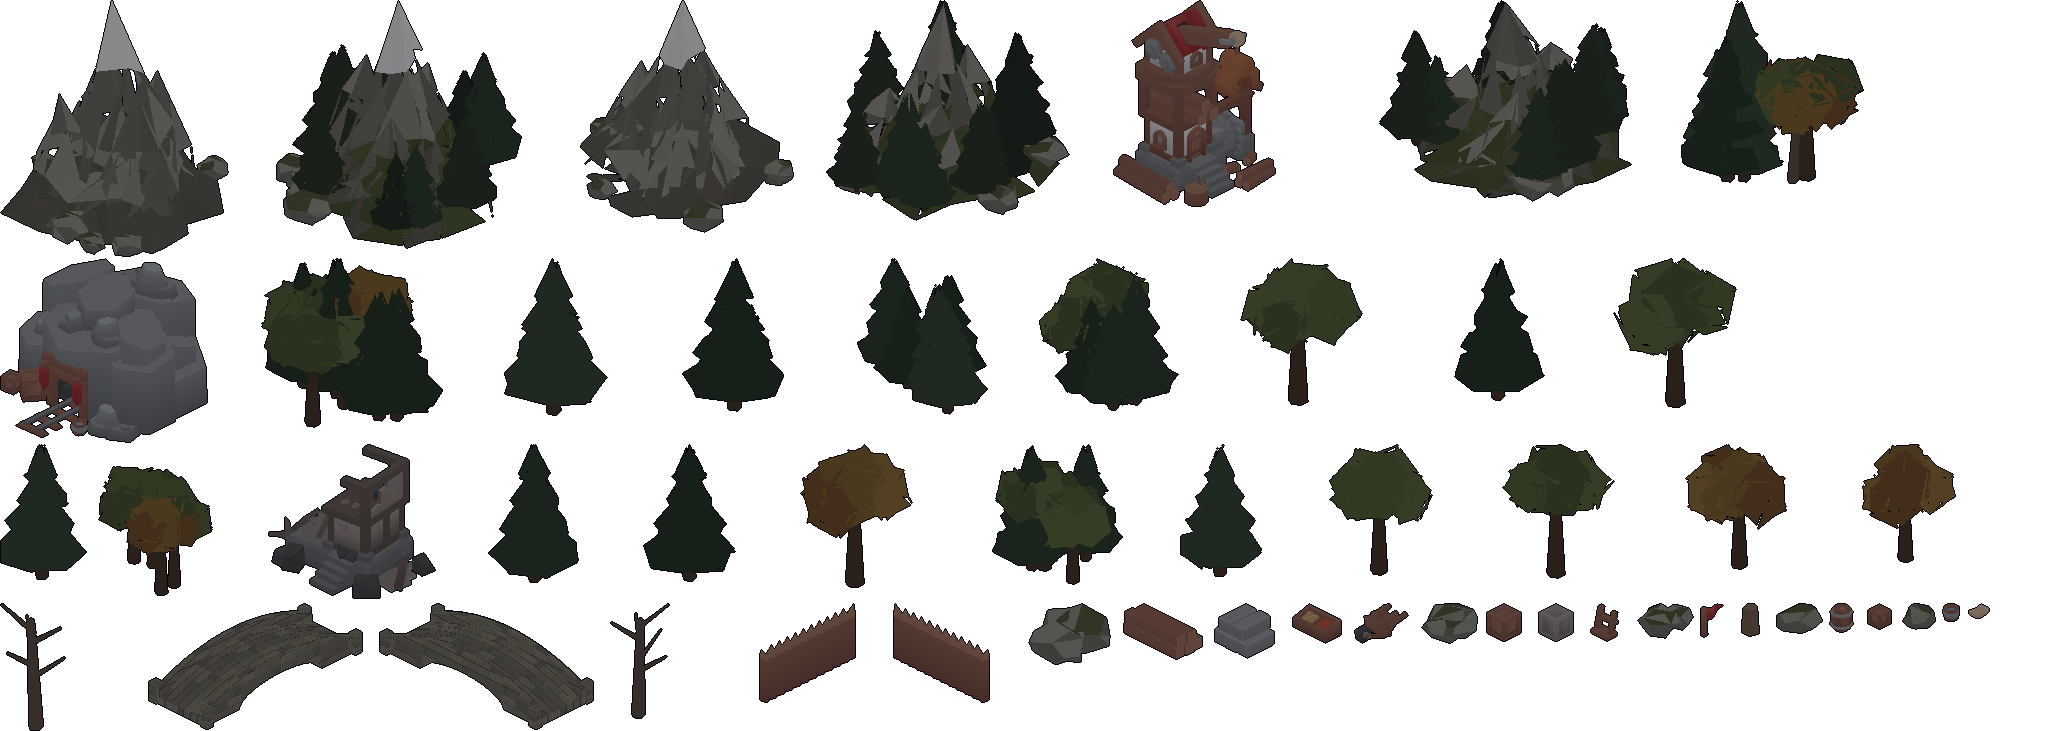
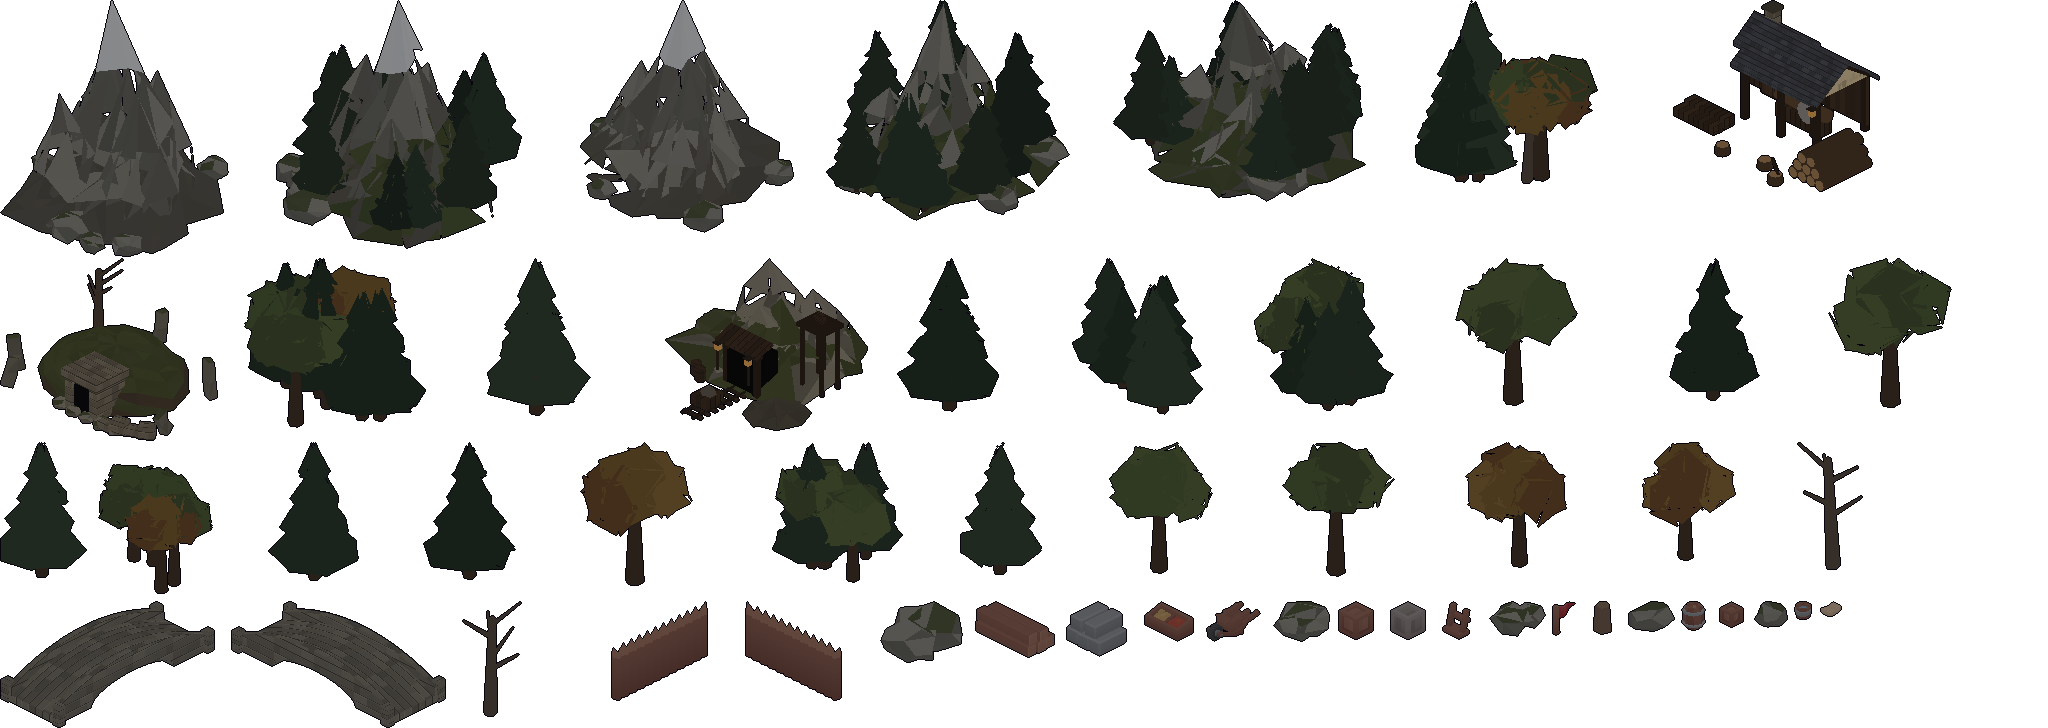
Replace KayKit ruin, mine and lumber mill with our own
- buildkit.js adds three overland site types:
  - barrow: the Old Barrows, an earthen mound with a stone doorway and dark
    passage, standing stones, a tumbled wall and a dead tree.
  - mine: Deepdelve Mine, a crag outcrop with a timbered adit and lantern,
    rails and an ore cart, a spoil heap and a winch frame.
  - lumbermill: an open saw-shed with saw bench and blade, a log pile, plank
    stacks, stumps, a cabin and a lantern.
- Same ids (ruin, mine_0, lumbermill_90); only small KayKit props remain.
- Credits and town-art doc updated.

Claude-Session: https://claude.ai/code/session_015iJE9saRx1hCYJHRMUYeGn

diff --git a/tools/actor-lab/buildkit.js b/tools/actor-lab/buildkit.js
@@ -497,6 +497,92 @@ const NATURE = {
 };
 export function makeNature(kind, seed = 1, variant = 0) { return NATURE[kind](rng(seed * 131 + kind.length), variant); }
 
+// ── overland sites (our own, replacing the stock ruin / mine / lumber mill) ─────
+function lantern(g, S, x, y, z) {
+  box(0.02, 0.22, 0.02, S.m.beam, x, y - 0.22, z, g);
+  const l = new THREE.Mesh(new THREE.BoxGeometry(0.05, 0.06, 0.05), S.m.glass); l.userData.glow = true; l.position.set(x, y + 0.02, z); g.add(l);
+  box(0.07, 0.015, 0.07, S.m.trim, x, y + 0.05, z, g);
+}
+function standingStone(g, r, x, z, h, lean = 0) {
+  const geo = faceted(new THREE.BoxGeometry(0.1, h, 0.07, 1, 2, 1), r, 0.03, (ny, y, q) => (ny > 0.6 ? tint(ROCK.moss, 0.9 + q * 0.2) : tint(ROCK.base, 0.8 + q * 0.25)));
+  geo.translate(0, h / 2, 0);
+  const m = new THREE.Mesh(geo, vmat()); m.position.set(x, 0, z); m.rotation.set(lean, r() * 3, lean * 0.5); g.add(m); return m;
+}
+Object.assign(TYPES, {
+  // The Old Barrows: an earthen burial mound with a stone doorway, standing stones, a tumbled wall
+  barrow(S, g, r) {
+    const moundGeo = new THREE.SphereGeometry(0.62, 12, 6, 0, Math.PI * 2, 0, Math.PI / 2); moundGeo.scale(1.15, 0.62, 1);
+    const mound = new THREE.Mesh(faceted(moundGeo, r, 0.06, (ny, y, q) => (ny > 0.35 ? tint(ROCK.grass, 0.8 + q * 0.3) : tint(C3('#4a4034'), 0.85 + q * 0.2))), vmat());
+    mound.position.set(-0.1, 0, -0.12); g.add(mound);
+    // entrance passage on the camera side: dark mouth, uprights, lintel, kerb stones
+    const dark = mat(null, '#0c0a10'); box(0.22, 0.26, 0.3, dark, 0.12, 0, 0.36, g);
+    for (const sx of [-1, 1]) box(0.09, 0.32, 0.36, S.m.stone, 0.12 + sx * 0.155, 0, 0.36, g);
+    box(0.44, 0.08, 0.42, S.m.stone, 0.12, 0.32, 0.36, g);
+    for (let i = 0; i < 6; i++) { const a = -0.6 + i * 0.28; const k = rockMesh(r, 0.07 + r() * 0.03, 0.6); k.position.set(0.12 + Math.cos(a + 1.2) * 0.62, 0, 0.3 + Math.sin(a + 1.2) * 0.24); g.add(k); }
+    // a ring of leaning stones, a tumbled wall, a dead tree
+    for (const [x, z, h, l] of [[-0.85, 0.35, 0.34, 0.12], [-0.72, 0.62, 0.26, -0.2], [0.7, -0.5, 0.38, 0.06], [0.85, 0.2, 0.22, 0.3], [-0.3, -0.85, 0.3, -0.1]]) standingStone(g, r, x, z, h, l);
+    for (let i = 0; i < 4; i++) box(0.14, 0.07 + (i % 2) * 0.05, 0.1, S.m.stone, 0.45 + i * 0.12, 0, 0.55 - i * 0.05, g).rotation.y = 0.2 * i;
+    deadTree(g, r, -0.6, -0.4, 1.0);
+  },
+  // Deepdelve Mine: a rock outcrop with a timbered adit, rails and an ore cart, spoil heap, winch frame, lanterns
+  mine(S, g, r) {
+    const out = new THREE.Group(); out.position.set(-0.2, 0, -0.25); g.add(out);
+    const oc = (ny, y, q) => (ny > 0.6 && y < 0.35 ? tint(ROCK.grass, 0.8 + q * 0.3) : ny > 0.35 ? tint(ROCK.light, 0.85 + q * 0.2) : tint(ROCK.base, 0.8 + q * 0.25));
+    const crag = (x, z, rad, ht, seg) => { const geo = new THREE.ConeGeometry(rad, ht, seg, 3); geo.translate(0, ht / 2, 0); const m = new THREE.Mesh(faceted(geo, r, rad * 0.3, oc), vmat()); m.position.set(x, 0, z); m.rotation.y = r() * 6; out.add(m); };
+    crag(0, 0, 0.85, 0.42, 10);                                                   // a broad low outcrop…
+    crag(-0.25, -0.2, 0.5, 0.78, 7); crag(0.22, -0.28, 0.42, 0.62, 7); crag(-0.05, 0.1, 0.4, 0.55, 7);   // …with a few blunt crags
+    for (let i = 0; i < 3; i++) { const a = r() * 6.28; const k = rockMesh(r, 0.18 + r() * 0.1, 0.8); k.position.set(Math.cos(a) * 0.6 - 0.2, 0, Math.sin(a) * 0.5 - 0.25); g.add(k); }
+    // adit on the +z face: dark mouth framed with timber, a little plank roof
+    const ad = new THREE.Group(); ad.position.set(0.05, 0, 0.35); g.add(ad);
+    box(0.34, 0.36, 0.3, mat(null, '#0b0a0e'), 0, 0, -0.05, ad);
+    for (const sx of [-1, 1]) box(0.05, 0.4, 0.05, S.m.beam, sx * 0.19, 0, 0.08, ad);
+    box(0.46, 0.06, 0.07, S.m.beam, 0, 0.4, 0.08, ad);
+    const rf = box(0.52, 0.03, 0.22, S.m.wood, 0, 0.47, 0.05, ad); rf.rotation.x = 0.35;
+    lantern(ad, S, -0.24, 0.36, 0.14);
+    // rails running out of the adit with sleepers, an ore cart on them
+    for (let i = 0; i < 7; i++) box(0.22, 0.015, 0.035, S.m.wood, 0.05, 0, 0.5 + i * 0.09, g);
+    for (const sx of [-1, 1]) box(0.015, 0.02, 0.66, S.m.trim, 0.05 + sx * 0.07, 0.015, 0.78, g);
+    const cart = new THREE.Group(); cart.position.set(0.05, 0.02, 0.86); g.add(cart);
+    box(0.18, 0.1, 0.22, S.m.wood, 0, 0.03, 0, cart); for (const [x, z] of [[-0.08, -0.07], [0.08, -0.07], [-0.08, 0.07], [0.08, 0.07]]) { const w = new THREE.Mesh(new THREE.CylinderGeometry(0.03, 0.03, 0.02, 8), S.m.trim); w.rotation.z = Math.PI / 2; w.position.set(x, 0.03, z); cart.add(w); }
+    const ore = new THREE.Mesh(faceted(new THREE.DodecahedronGeometry(0.08, 0), r, 0.03, () => tint(C3('#5c5750'), 1)), vmat()); ore.position.y = 0.14; ore.scale.y = 0.6; cart.add(ore);
+    // spoil heap and a winch frame on the outcrop's shoulder
+    const heap = new THREE.Mesh(faceted(new THREE.ConeGeometry(0.3, 0.12, 8, 2).translate(0, 0.06, 0), r, 0.04, (ny, y, q) => tint(ROCK.scree, 0.62 + q * 0.2)), vmat()); heap.position.set(0.55, 0, 0.5); g.add(heap);
+    const wf = new THREE.Group(); wf.position.set(0.5, 0, -0.1); g.add(wf);
+    for (const [x, z] of [[-0.12, -0.1], [0.12, -0.1], [-0.12, 0.1], [0.12, 0.1]]) box(0.03, 0.62, 0.03, S.m.beam, x, 0, z, wf);
+    box(0.32, 0.04, 0.28, S.m.beam, 0, 0.62, 0, wf);
+    const pul = new THREE.Mesh(new THREE.CylinderGeometry(0.06, 0.06, 0.03, 10), S.m.wood); pul.rotation.x = Math.PI / 2; pul.position.set(0, 0.7, 0); wf.add(pul);
+    box(0.008, 0.45, 0.008, S.m.trim, 0.06, 0.2, 0, wf);
+    lantern(g, S, 0.32, 0.46, 0.62);
+    barrel(g, S, -0.35, 0.55); barrel(g, S, -0.45, 0.5);
+  },
+  // Lumber mill: an open saw-shed on posts, saw bench, log and plank stacks, stumps, a cabin
+  lumbermill(S, g, r) {
+    const shed = new THREE.Group(); shed.position.set(-0.05, 0, -0.1); g.add(shed);
+    for (const [x, z] of [[-0.45, -0.3], [0.45, -0.3], [-0.45, 0.3], [0.45, 0.3], [0, -0.3], [0, 0.3]]) box(0.05, 0.55, 0.05, S.m.beam, x, 0, z, shed);
+    box(0.95, 0.04, 0.05, S.m.beam, 0, 0.53, 0.3, shed); box(0.95, 0.04, 0.05, S.m.beam, 0, 0.53, -0.3, shed);
+    box(0.95, 0.5, 0.03, S.m.wood, 0, 0.05, -0.31, shed);                       // back wall of planks
+    roofOver(S, shed, 0.95, 0.62, 0.55, S.roofRise * 0.8);
+    // saw bench with a log on it and a big blade
+    box(0.55, 0.14, 0.14, S.m.wood, 0, 0, 0.02, shed);
+    const lg = new THREE.Mesh(new THREE.CylinderGeometry(0.06, 0.065, 0.62, 8), mat(null, '#5a4430')); lg.rotation.z = Math.PI / 2; lg.position.set(0, 0.2, 0.02); shed.add(lg);
+    const blade = new THREE.Mesh(new THREE.CylinderGeometry(0.11, 0.11, 0.01, 16), mat(null, '#8a8a90')); blade.rotation.x = Math.PI / 2; blade.position.set(0.12, 0.2, 0.1); shed.add(blade);
+    // log pile (pyramid of cylinders) and plank stacks
+    const logs = new THREE.Group(); logs.position.set(0.72, 0, 0.35); g.add(logs);
+    const bark = mat(null, '#4a3828');
+    for (const [row, n] of [[0, 4], [1, 3], [2, 2]]) for (let i = 0; i < n; i++) { const c = new THREE.Mesh(new THREE.CylinderGeometry(0.055, 0.055, 0.6, 8), bark); c.rotation.x = Math.PI / 2; c.position.set((i - (n - 1) / 2) * 0.11, 0.055 + row * 0.095, 0); logs.add(c);
+      const end = new THREE.Mesh(new THREE.CylinderGeometry(0.05, 0.05, 0.005, 8), mat(null, '#9a7a52')); end.rotation.x = Math.PI / 2; end.position.set(c.position.x, c.position.y, 0.302); logs.add(end); }
+    for (let i = 0; i < 4; i++) box(0.5, 0.025, 0.12, S.m.wood, -0.72, i * 0.027, 0.42, g);
+    for (let i = 0; i < 3; i++) box(0.5, 0.025, 0.12, S.m.wood, -0.72, i * 0.027, 0.56, g);
+    // cabin behind, stumps and an axe block in front
+    const cab = new THREE.Group(); cab.position.set(-0.75, 0, -0.45); g.add(cab);
+    storeyBlock(S, cab, 0.42, 0.38, 0, 0.4, S.m.wood, true, { doorZ: 0.1 }); doorOn(cab, S, { side: 'z', wallW: 0.42, wallD: 0.38 }, 0.1, 0.13, 0.28, false);
+    roofOver(S, cab, 0.42, 0.38, 0.4, S.roofRise); chimney(cab, S, -0.1, -0.05, 0.4, 0.28);
+    for (const [x, z] of [[0.25, 0.7], [0.5, 0.82], [-0.2, 0.78]]) { const st = new THREE.Mesh(new THREE.CylinderGeometry(0.06, 0.07, 0.08, 8), bark); st.position.set(x, 0.04, z); g.add(st); const top = new THREE.Mesh(new THREE.CylinderGeometry(0.058, 0.058, 0.005, 8), mat(null, '#9a7a52')); top.position.set(x, 0.083, z); g.add(top); }
+    box(0.02, 0.16, 0.02, S.m.beam, 0.5, 0.08, 0.82, g).rotation.z = 0.5;
+    lantern(g, S, 0.5, 0.5, 0.36);
+  },
+});
+
 export const BUILD_TYPES = Object.keys(TYPES);
 
 export function makeBuilding(type, style, seed = 1, faceX = false) {

diff --git a/src/sim/envfoot.js b/src/sim/envfoot.js
@@ -1,4 +1,4 @@
 // envfoot.js — GENERATED by tools/actor-lab/bake-env.cjs. Do not edit.
 // Ground footprint of each baked environment sprite, in tiles relative to its
 // origin: [x0, y0, x1, y1]. Used for collision and placement.
-export const ENV_FOOT = {"fence_0":[-10.5,-5.77,-9.5,5.77],"fence_90":[-5.77,9.5,5.77,10.5],"ruin":[-7.19,-7.13,8.2,5.92],"mine_0":[-8.17,-10.2,7.89,9],"lumbermill_90":[-4.59,-6.81,7.3,6.86],"barrel":[-1.01,-1.01,1.01,1.01],"crate_A_big":[-1.05,-1.05,1.05,1.05],"crate_A_small":[-0.7,-0.7,0.7,0.7],"crate_B_big":[-1.05,-1.05,1.05,1.05],"crate_long_A":[-2,-1,2,1],"sack":[-0.53,-0.86,0.53,0.74],"wheelbarrow":[-1.19,-2.13,1.19,2.93],"weaponrack":[-1,-0.7,1,0.6],"bucket_water":[-0.7,-0.7,0.7,0.7],"resource_lumber":[-3.45,-1.64,3.41,1.67],"resource_stone":[-2.11,-1.77,2.11,1.81],"flag_red":[-0.27,-2.42,0.28,0.22],"pine_1":[-5.46,-5.7,5.31,5.16],"pine_2":[-4.5,-4.8,4.99,4.87],"pine_3":[-5.04,-4.72,4.94,5.15],"pine_4":[-4.7,-4.76,5.18,5.04],"pine_5":[-4.33,-4.33,4.72,4.69],"pine_6":[-5.3,-5.62,5.8,5.55],"oak_1":[-6.11,-7.36,6.14,6.76],"oak_2":[-5.3,-5.13,4.9,6.33],"oak_3":[-4.78,-5.35,3.81,5.83],"oak_4":[-6.79,-6.27,5.48,6.7],"autumn_1":[-5.55,-5.54,5.19,6.4],"autumn_2":[-5.46,-4.76,5.52,5.58],"autumn_3":[-3.81,-5.57,4.15,6.11],"dead_1":[-2.24,-2.81,2.66,2.62],"dead_2":[-2.56,-1.87,2.98,3.05],"grove_1":[-9.33,-9.47,3.42,3.61],"grove_2":[-10.08,-9.35,8.36,9.26],"grove_3":[-8.88,-10.4,9.35,7.65],"grove_4":[-10.19,-7.19,8.42,8.9],"grove_5":[-7.76,-4.44,6.78,8.94],"grove_6":[-9.02,-9.65,7.4,2.07],"stump":[-0.85,-0.89,0.85,0.73],"bridge_0":[-3.6,-9.7,3.6,9.7],"bridge_90":[-9.7,-3.6,9.7,3.6],"rock_A":[-2.18,-2.03,2.19,2.41],"rock_B":[-2.03,-2.12,2.06,1.97],"rock_C":[-3.06,-3.35,3.32,3.55],"rock_D":[-2.7,-3.56,2.22,2.22],"rock_E":[-3.72,-3.84,4.19,6.22],"mountain_A_grass_trees":[-11.35,-11.48,11.34,11.97],"mountain_B_grass_trees":[-11.71,-13.02,12.8,11.38],"mountain_C_grass_trees":[-14.56,-13.66,14.26,14.25],"mountain_A":[-11.3,-11.74,11.05,10.38],"mountain_B":[-12.23,-11.71,11.72,13.45],"vale_tavern_1":[-6.2,-8.45,6.1,5.3],"vale_inn_1":[-7.1,-4.4,10.48,5.1],"vale_shop_1":[-4.2,-4.32,5.07,4.2],"vale_temple_1":[-12.5,-4.8,7.99,4.8],"vale_well_1":[-2.1,-1.8,2.1,1.8],"vale_house_1":[-4.7,-4,4.7,4],"vale_house_2":[-4.7,-4,4.7,4],"vale_house_3":[-4.7,-4,4.7,4],"vale_housex_1":[-4,-4.7,4,4.7],"vale_housex_2":[-4,-4.7,4,4.7],"vale_farm_1":[-9.63,-5.7,9.77,7.63],"vale_farmx_1":[-5.7,-9.77,7.63,9.63],"vale_keep_1":[-6.37,-6.45,6.37,6.45],"vale_wall_1":[-11,-1.7,11,2.1],"vale_wally_1":[-1.7,-11,2.1,11],"fens_tavern_1":[-6.2,-8.45,6.1,5.3],"fens_inn_1":[-7.1,-4.4,10.48,5.1],"fens_shop_1":[-4.2,-4.32,5.07,4.2],"fens_temple_1":[-12.5,-4.8,7.99,4.8],"fens_well_1":[-2.1,-1.8,2.1,1.8],"fens_house_1":[-4.7,-4,4.7,4],"fens_house_2":[-4.7,-4,4.7,4],"fens_house_3":[-4.7,-4,4.7,4],"fens_housex_1":[-4,-4.7,4,4.7],"fens_housex_2":[-4,-4.7,4,4.7],"fens_farm_1":[-9.63,-5.7,9.77,7.63],"fens_farmx_1":[-5.7,-9.77,7.63,9.63],"fens_keep_1":[-6.37,-6.45,6.37,6.45],"fens_wall_1":[-11,-1.7,11,2.1],"fens_wally_1":[-1.7,-11,2.1,11],"reach_tavern_1":[-6.2,-8.45,6.1,5.3],"reach_inn_1":[-7.1,-4.4,10.48,5.1],"reach_shop_1":[-4.2,-4.32,5.07,4.2],"reach_temple_1":[-12.5,-4.8,7.99,4.8],"reach_well_1":[-2.1,-1.8,2.1,1.8],"reach_house_1":[-4.7,-4,4.7,4],"reach_house_2":[-4.7,-4,4.7,4],"reach_house_3":[-4.7,-4,4.7,4],"reach_housex_1":[-4,-4.7,4,4.7],"reach_housex_2":[-4,-4.7,4,4.7],"reach_farm_1":[-9.63,-5.7,9.77,7.63],"reach_farmx_1":[-5.7,-9.77,7.63,9.63],"reach_keep_1":[-6.37,-6.45,6.37,6.45],"reach_wall_1":[-11,-1.7,11,2.1],"reach_wally_1":[-1.7,-11,2.1,11],"heights_tavern_1":[-6.2,-8.45,6.1,5.3],"heights_inn_1":[-7.1,-4.4,10.48,5.1],"heights_shop_1":[-4.2,-4.32,5.07,4.2],"heights_temple_1":[-12.5,-4.8,7.99,4.8],"heights_well_1":[-2.1,-1.8,2.1,1.8],"heights_house_1":[-4.7,-4,4.7,4],"heights_house_2":[-4.7,-4,4.7,4],"heights_house_3":[-4.7,-4,4.7,4],"heights_housex_1":[-4,-4.7,4,4.7],"heights_housex_2":[-4,-4.7,4,4.7],"heights_farm_1":[-9.63,-5.7,9.77,7.63],"heights_farmx_1":[-5.7,-9.77,7.63,9.63],"heights_keep_1":[-6.37,-6.45,6.37,6.45],"heights_wall_1":[-11,-1.7,11,2.1],"heights_wally_1":[-1.7,-11,2.1,11]};
+export const ENV_FOOT = {"fence_0":[-10.5,-5.77,-9.5,5.77],"fence_90":[-5.77,9.5,5.77,10.5],"barrel":[-1.01,-1.01,1.01,1.01],"crate_A_big":[-1.05,-1.05,1.05,1.05],"crate_A_small":[-0.7,-0.7,0.7,0.7],"crate_B_big":[-1.05,-1.05,1.05,1.05],"crate_long_A":[-2,-1,2,1],"sack":[-0.53,-0.86,0.53,0.74],"wheelbarrow":[-1.19,-2.13,1.19,2.93],"weaponrack":[-1,-0.7,1,0.6],"bucket_water":[-0.7,-0.7,0.7,0.7],"resource_lumber":[-3.45,-1.64,3.41,1.67],"resource_stone":[-2.11,-1.77,2.11,1.81],"flag_red":[-0.27,-2.42,0.28,0.22],"pine_1":[-5.46,-5.7,5.31,5.16],"pine_2":[-4.5,-4.8,4.99,4.87],"pine_3":[-5.04,-4.72,4.94,5.15],"pine_4":[-4.7,-4.76,5.18,5.04],"pine_5":[-4.33,-4.33,4.72,4.69],"pine_6":[-5.3,-5.62,5.8,5.55],"oak_1":[-6.11,-7.36,6.14,6.76],"oak_2":[-5.3,-5.13,4.9,6.33],"oak_3":[-4.78,-5.35,3.81,5.83],"oak_4":[-6.79,-6.27,5.48,6.7],"autumn_1":[-5.55,-5.54,5.19,6.4],"autumn_2":[-5.46,-4.76,5.52,5.58],"autumn_3":[-3.81,-5.57,4.15,6.11],"dead_1":[-2.24,-2.81,2.66,2.62],"dead_2":[-2.56,-1.87,2.98,3.05],"grove_1":[-9.33,-9.47,3.42,3.61],"grove_2":[-10.08,-9.35,8.36,9.26],"grove_3":[-8.88,-10.4,9.35,7.65],"grove_4":[-10.19,-7.19,8.42,8.9],"grove_5":[-7.76,-4.44,6.78,8.94],"grove_6":[-9.02,-9.65,7.4,2.07],"stump":[-0.85,-0.89,0.85,0.73],"bridge_0":[-3.6,-9.7,3.6,9.7],"bridge_90":[-9.7,-3.6,9.7,3.6],"rock_A":[-2.18,-2.03,2.19,2.41],"rock_B":[-2.03,-2.12,2.06,1.97],"rock_C":[-3.06,-3.35,3.32,3.55],"rock_D":[-2.7,-3.56,2.22,2.22],"rock_E":[-3.72,-3.84,4.19,6.22],"mountain_A_grass_trees":[-11.35,-11.48,11.34,11.97],"mountain_B_grass_trees":[-11.71,-13.02,12.8,11.38],"mountain_C_grass_trees":[-14.56,-13.66,14.26,14.25],"mountain_A":[-11.3,-11.74,11.05,10.38],"mountain_B":[-12.23,-11.71,11.72,13.45],"ruin":[-9.37,-9.66,9.14,6.89],"mine_0":[-11.55,-10.95,8.49,11.1],"lumbermill_90":[-10.3,-7.1,9.4,8.9],"vale_tavern_1":[-6.2,-8.45,6.1,5.3],"vale_inn_1":[-7.1,-4.4,10.48,5.1],"vale_shop_1":[-4.2,-4.32,5.07,4.2],"vale_temple_1":[-12.5,-4.8,7.99,4.8],"vale_well_1":[-2.1,-1.8,2.1,1.8],"vale_house_1":[-4.7,-4,4.7,4],"vale_house_2":[-4.7,-4,4.7,4],"vale_house_3":[-4.7,-4,4.7,4],"vale_housex_1":[-4,-4.7,4,4.7],"vale_housex_2":[-4,-4.7,4,4.7],"vale_farm_1":[-9.63,-5.7,9.77,7.63],"vale_farmx_1":[-5.7,-9.77,7.63,9.63],"vale_keep_1":[-6.37,-6.45,6.37,6.45],"vale_wall_1":[-11,-1.7,11,2.1],"vale_wally_1":[-1.7,-11,2.1,11],"fens_tavern_1":[-6.2,-8.45,6.1,5.3],"fens_inn_1":[-7.1,-4.4,10.48,5.1],"fens_shop_1":[-4.2,-4.32,5.07,4.2],"fens_temple_1":[-12.5,-4.8,7.99,4.8],"fens_well_1":[-2.1,-1.8,2.1,1.8],"fens_house_1":[-4.7,-4,4.7,4],"fens_house_2":[-4.7,-4,4.7,4],"fens_house_3":[-4.7,-4,4.7,4],"fens_housex_1":[-4,-4.7,4,4.7],"fens_housex_2":[-4,-4.7,4,4.7],"fens_farm_1":[-9.63,-5.7,9.77,7.63],"fens_farmx_1":[-5.7,-9.77,7.63,9.63],"fens_keep_1":[-6.37,-6.45,6.37,6.45],"fens_wall_1":[-11,-1.7,11,2.1],"fens_wally_1":[-1.7,-11,2.1,11],"reach_tavern_1":[-6.2,-8.45,6.1,5.3],"reach_inn_1":[-7.1,-4.4,10.48,5.1],"reach_shop_1":[-4.2,-4.32,5.07,4.2],"reach_temple_1":[-12.5,-4.8,7.99,4.8],"reach_well_1":[-2.1,-1.8,2.1,1.8],"reach_house_1":[-4.7,-4,4.7,4],"reach_house_2":[-4.7,-4,4.7,4],"reach_house_3":[-4.7,-4,4.7,4],"reach_housex_1":[-4,-4.7,4,4.7],"reach_housex_2":[-4,-4.7,4,4.7],"reach_farm_1":[-9.63,-5.7,9.77,7.63],"reach_farmx_1":[-5.7,-9.77,7.63,9.63],"reach_keep_1":[-6.37,-6.45,6.37,6.45],"reach_wall_1":[-11,-1.7,11,2.1],"reach_wally_1":[-1.7,-11,2.1,11],"heights_tavern_1":[-6.2,-8.45,6.1,5.3],"heights_inn_1":[-7.1,-4.4,10.48,5.1],"heights_shop_1":[-4.2,-4.32,5.07,4.2],"heights_temple_1":[-12.5,-4.8,7.99,4.8],"heights_well_1":[-2.1,-1.8,2.1,1.8],"heights_house_1":[-4.7,-4,4.7,4],"heights_house_2":[-4.7,-4,4.7,4],"heights_house_3":[-4.7,-4,4.7,4],"heights_housex_1":[-4,-4.7,4,4.7],"heights_housex_2":[-4,-4.7,4,4.7],"heights_farm_1":[-9.63,-5.7,9.77,7.63],"heights_farmx_1":[-5.7,-9.77,7.63,9.63],"heights_keep_1":[-6.37,-6.45,6.37,6.45],"heights_wall_1":[-11,-1.7,11,2.1],"heights_wally_1":[-1.7,-11,2.1,11]};

diff --git a/assets/CREDITS.md b/assets/CREDITS.md
@@ -15,8 +15,9 @@ The earlier POC atlases (a Flare CC BY-SA 3.0 skeleton and the `isometric_hero`
 knight) have been removed.
 
 ## Environment — `assets/env/`
-The buildings, trees, bridge, rocks and mountains are **our own**: low-poly models
-authored in code (`tools/actor-lab/buildkit.js`). The ruin, the mine, the lumber mill
-and small props (barrels, crates, sacks, fences) still come from the **KayKit Medieval
-Hexagon Pack** by Kay Lousberg (**CC0 1.0**). Everything is baked by `tools/actor-lab/bake-env.cjs`. The source
+The buildings, trees, bridge, rocks, mountains and overland sites (the Old Barrows, the
+mine, the lumber mill) are **our own**: low-poly models authored in code
+(`tools/actor-lab/buildkit.js`). Only small props (barrels, crates, sacks, fences, a
+wheelbarrow, stumps) still come from the **KayKit Medieval Hexagon Pack** by Kay Lousberg
+(**CC0 1.0**). Everything is baked by `tools/actor-lab/bake-env.cjs`. The source
 models are downloaded by `tools/actor-lab/fetch-env.sh` and never committed.

diff --git a/docs/town-art-options.md b/docs/town-art-options.md
@@ -78,3 +78,17 @@ The KayKit bridge, rocks and mountains are replaced by `makeNature()` in
   snow above ~58 % of the height, and grass and pines on the lower slopes of three of them.
 
 Sprite ids are unchanged (`bridge_0/90`, `rock_A…E`, `mountain_*`), so no layout changed.
+
+## Overland sites (ours)
+
+![The Old Barrows, Deepdelve Mine and the lumber camp](./img/town/sites-kit.png)
+
+- **The Old Barrows** is an earthen burial mound with a stone doorway (uprights and a lintel)
+  opening onto a dark passage, beside the stairs down into the dungeon. Leaning standing
+  stones, a tumbled wall and a dead tree surround it.
+- **Deepdelve Mine** is a broad crag outcrop with a timbered adit and a lantern, rails with
+  an ore cart, a spoil heap and a winch frame.
+- **The lumber camp** is an open saw-shed on posts with a saw bench and blade, a log pile,
+  plank stacks, stumps, a cabin and a lantern.
+
+Ids are unchanged (`ruin`, `mine_0`, `lumbermill_90`). Only small KayKit props remain.
